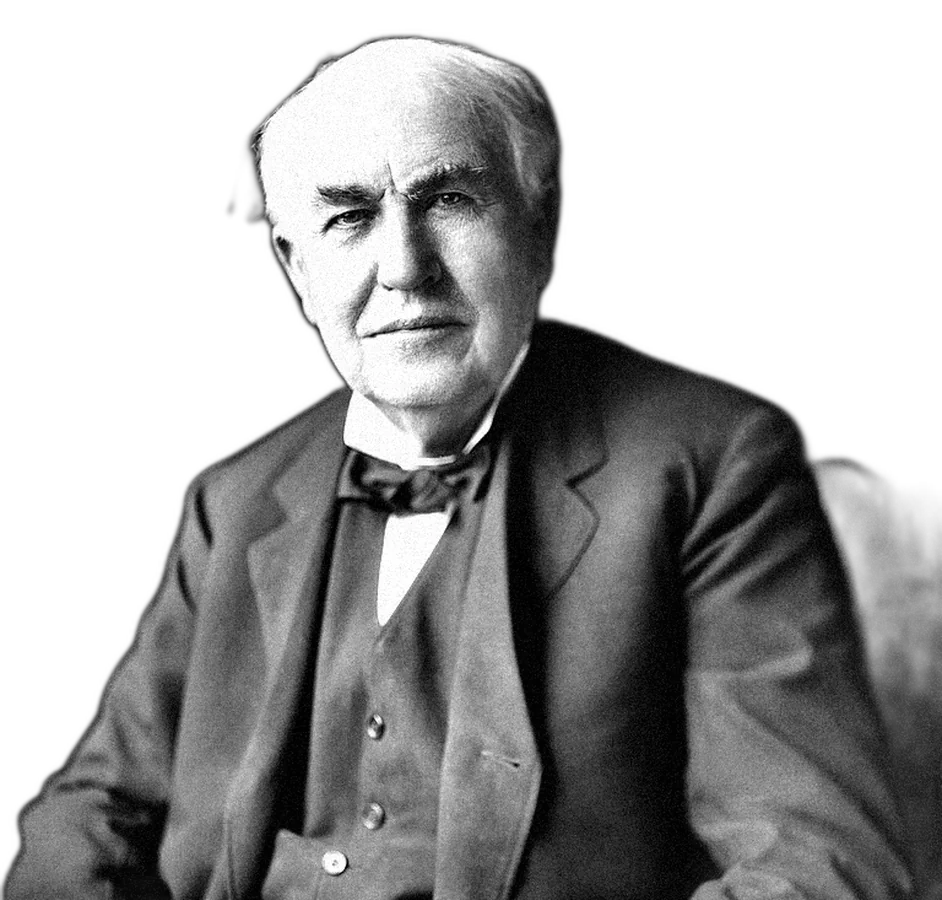
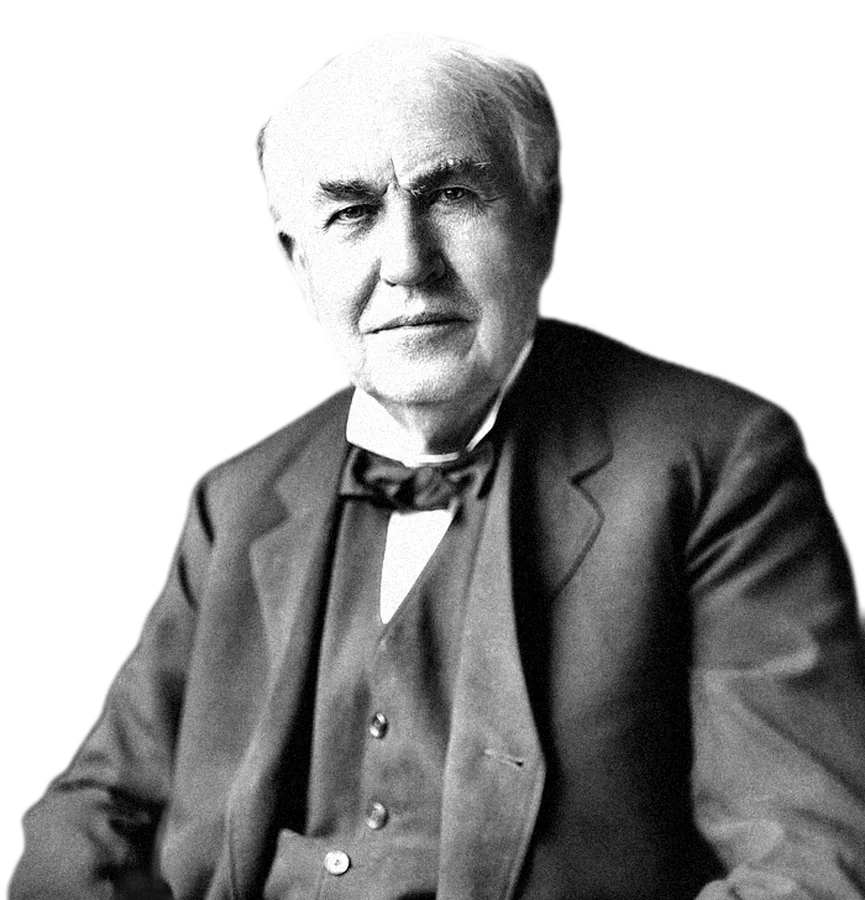
Hall of Minds: clean the dark edges off Newton and Edison
Claude-Session: https://claude.ai/code/session_01TvvDVzmjTmUGC952DbShZp

diff --git a/scripts/minds/portraits.py b/scripts/minds/portraits.py
@@ -12,7 +12,7 @@ BOX = {  # (left, top, right, bottom) as fractions of the source image
     "napoleon": ("Jacques_Louis_David_The_Emperor_Napoleon_in_His_St.jpg", (0.18, 0.04, 0.82, 0.42)),
     "franklin": ("Joseph_Siffrein_Duplessis_Benjamin_Franklin_Google.jpg", (0.0, 0.02, 1.0, 0.9)),
     "tesla": ("Tesla_circa_1890_jpeg.jpg", (0.0, 0.0, 1.0, 0.85)),
-    "edison": ("Thomas_Edison2_jpg.jpg", (0.2, 0.0, 1.0, 0.62)),
+    "edison": ("Thomas_Edison2_jpg.jpg", (0.2, 0.0, 0.93, 0.62)),
     "alexander": ("Alexander1256.jpg", (0.02, 0.0, 0.66, 0.36)),
     "livermore": ("livermore.jpg", (0.04, 0.02, 0.96, 0.86)),
     "dow": ("dow.jpg", (0.0, 0.0, 1.0, 1.0)),
@@ -22,6 +22,8 @@ BOX = {  # (left, top, right, bottom) as fractions of the source image
 sess = new_session("u2net_human_seg")
 sess_general = new_session("isnet-general-use")
 GENERAL = {"livermore"}  # the people-model left newspaper background on him
+HAIR = {"newton": 82}
+TIGHT = {"newton", "edison"}  # owner 2026-10-23: a little black came off their sides
 rng = np.random.default_rng(7)
 
 
@@ -39,7 +41,19 @@ for fid, (f, (l, t, r, b)) in BOX.items():
     w, h = im.size
     im = im.crop((int(l * w), int(t * h), int(r * w), int(b * h)))
     cut = remove(im, session=sess_general if fid in GENERAL else sess)
-    alpha = cut.split()[3].filter(ImageFilter.GaussianBlur(1.2))
+    alpha = cut.split()[3]
+    if fid in TIGHT:  # dark smudges left on the edge: drop the half-transparent fringe, pull the edge in
+        alpha = alpha.point(lambda v: 0 if v < 150 else min(255, int((v - 150) * 2.5))).filter(ImageFilter.MinFilter(5))
+    if fid in HAIR:  # light hair on a dark painted background: around the hair keep only the light strands
+        core = np.asarray(alpha.filter(ImageFilter.MinFilter(61))) > 200
+        light = cut.convert("L").filter(ImageFilter.GaussianBlur(2)).point(lambda v: 255 if v > HAIR[fid] else 0)
+        light = np.asarray(light.filter(ImageFilter.MaxFilter(51)).filter(ImageFilter.MinFilter(41))) > 0  # fill the hair's dark strands
+        band = ~core
+        band[int(band.shape[0] * 0.6):] = False  # the coat below is dark on dark: leave it alone
+        a = np.asarray(alpha).copy()
+        a[band & ~light] = 0
+        alpha = Image.fromarray(a)
+    alpha = alpha.filter(ImageFilter.GaussianBlur(1.2))
     gray = look(cut.convert("L"))
     x0, y0, x1, y1 = alpha.point(lambda v: 255 if v > 40 else 0).getbbox()
     pad = int((y1 - y0) * 0.04)
